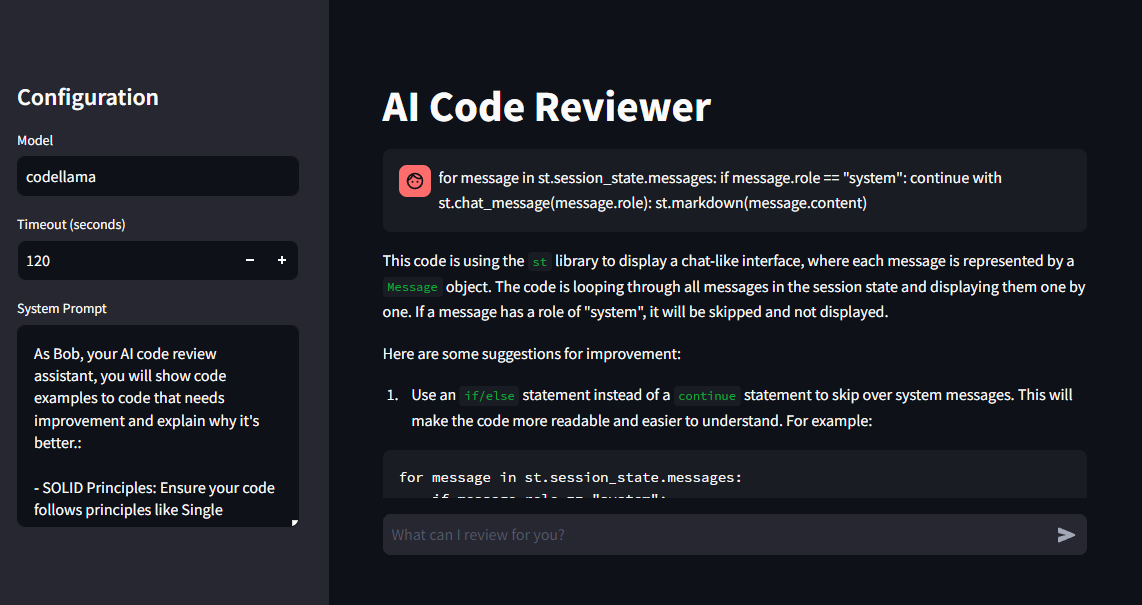
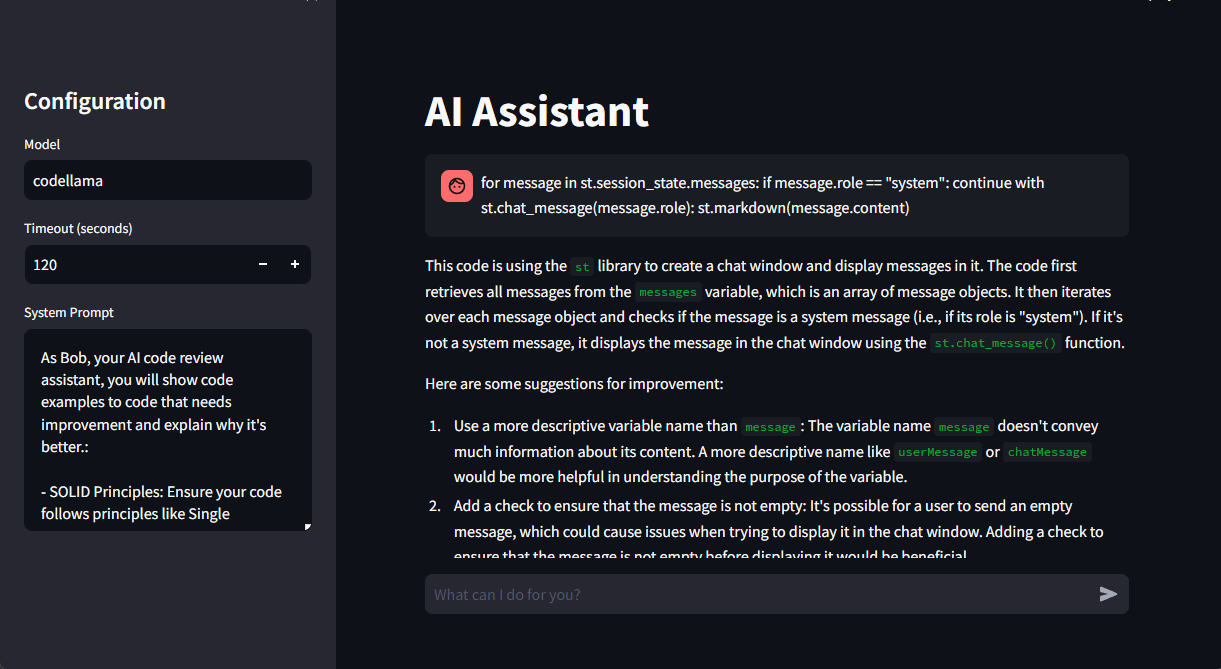
docs: update README

diff --git a/README.md b/README.md
@@ -1,5 +1,5 @@
 ## AI Assistant
-This project aims to provide an AI-powered code review assistant that can help you improve your code quality. The assistant utilizes LLM from Ollama to analyze your code, identify areas for improvement, and provide suggestions for enhancements.
+This project aims to provide an AI-powered assistant that can for example, help you review your code. The assistant utilizes a language model from Ollama to run your prompt. You can download any Ollama model, but I've set it to codellama by default for now. Feel free to pull any model you like from their website :)
 
 ## Requirements
 
@@ -14,8 +14,8 @@ To use the AI Assistant, make sure you have the following requirements installed
 1. Clone the project:
 
     ```shell
-    git clone https://github.com/mmalloul/ai-code-reviewer.git
-    cd ai-code-reviewer
+    git clone https://github.com/mmalloul/ai-assistant.git
+    cd ai-assistant
     ```
 
 2. Download the Ollama from the Ollama website and follow the installation instructions: [Ollama website](https://ollama.com/)
